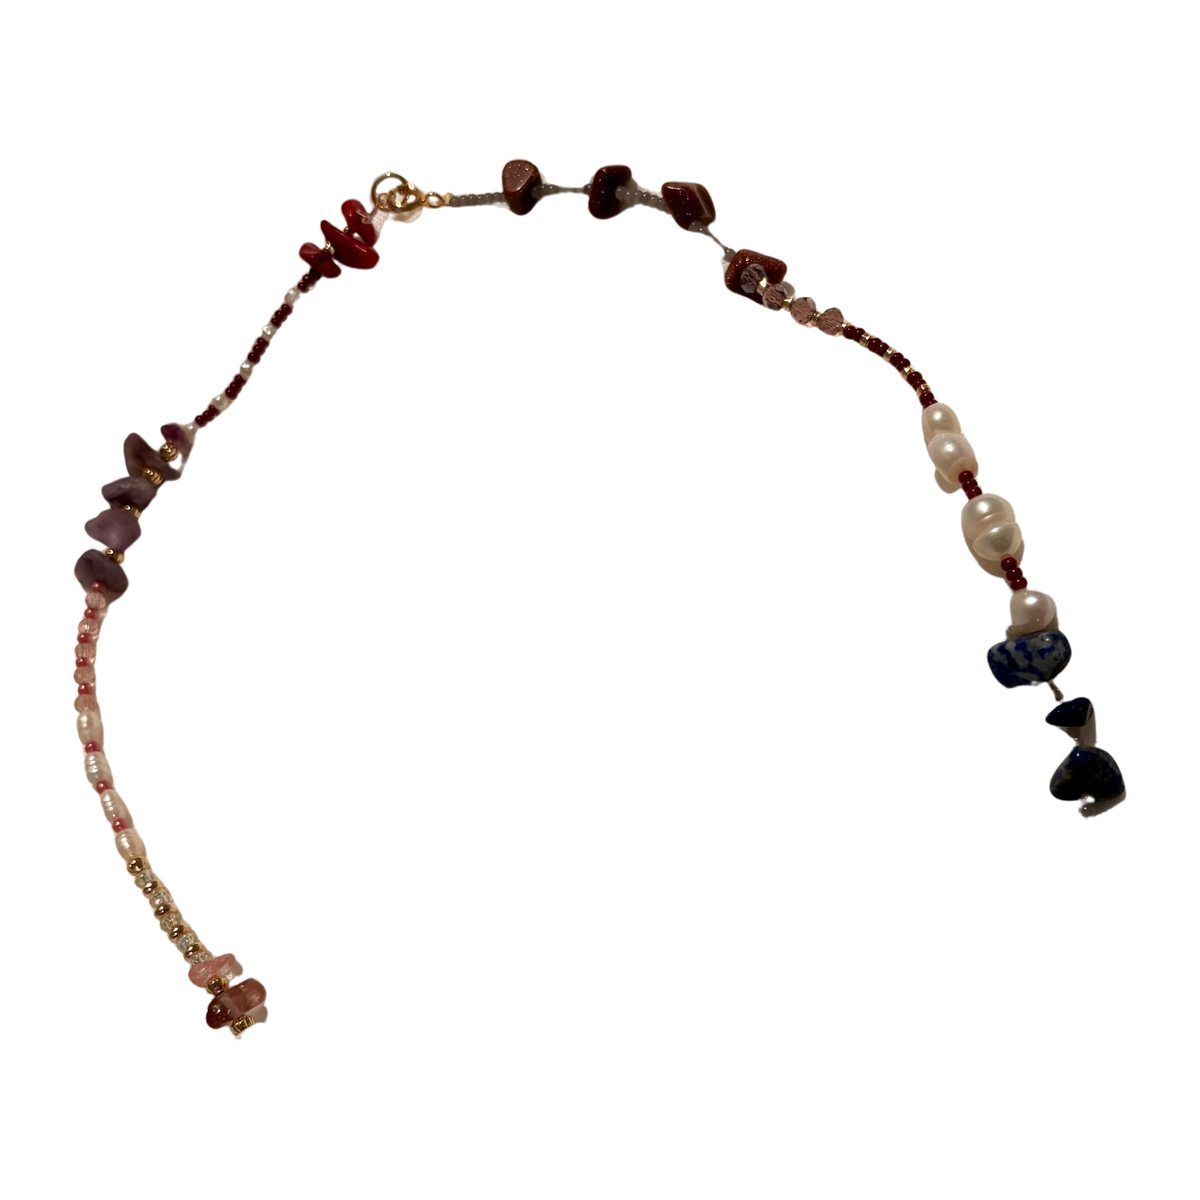
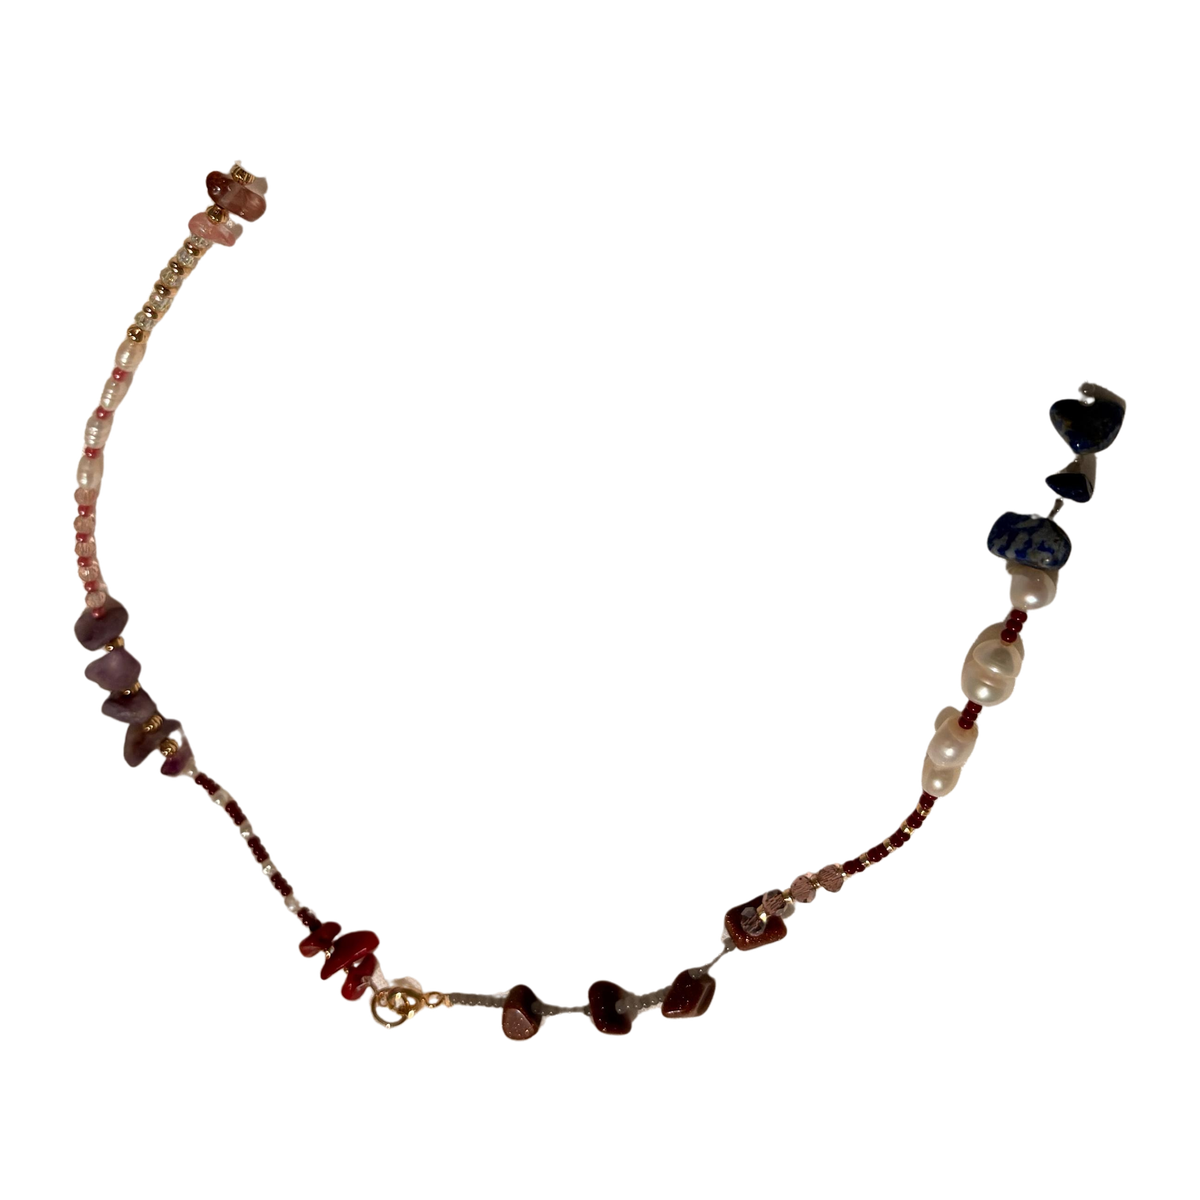
Corregir escala de pulsera (doble multiplicación), reducir anillos, agrandar arete cristal perla y voltear collar piedras mixtas

Changed region(s): [[0.2158, 0.2775, 0.9558, 0.8633], [0.0617, 0.1233, 0.2467, 0.8633], [0.2467, 0.1233, 0.7092, 0.2775]]

diff --git a/index.html b/index.html
@@ -541,7 +541,8 @@ function drawRings(landmarks){
   const ang = Math.atan2(dy,dx);
   const fingerLen = Math.hypot(pip.x-mcp.x, pip.y-mcp.y);
   const o = state.offsets.anillo, img = imagenActiva();
-  const w = fingerLen * 1.9 * o.scale;
+  if (!usable(img)) return;
+  const w = fingerLen * 0.95 * o.scale;
   const h = w * (img.naturalHeight / img.naturalWidth || 0.56);
   const px = pip.x + o.x*canvas.width, py = pip.y + o.y*canvas.height;
   // Sin corte: el anillo se ve completo (el usuario prefiere la imagen tal cual)
@@ -557,23 +558,24 @@ function drawPulseras(landmarks){
   const ang = Math.atan2(dy,dx);
   const o = state.offsets.pulsera, img = imagenActiva();
   if (!usable(img)) return;
-  // grosor de la muñeca estimado a partir del ancho de la mano
-  const palmW = Math.hypot((P(hand,9).x-P(hand,17).x)*canvas.width, (P(hand,9).y-P(hand,17).y)*canvas.height) || len*0.45;
-  const grosor = palmW * 0.82;
-  const w = grosor * 1.32 * o.scale;
-  const h = w * 0.58;
-  const cx = wrist.x - ux*len*0.06 + o.x*canvas.width;
-  const cy = wrist.y - uy*len*0.06 + o.y*canvas.height;
-  // sombra suave detrás de la pulsera
+  // Ancho de la mano (nudillos 5→17) y, a partir de ahí, el grosor de la muñeca.
+  const nudillos = Math.hypot(P(hand,5).x-P(hand,17).x, P(hand,5).y-P(hand,17).y);
+  const grosor = (nudillos || len*0.70) * 0.78;
+  const w = grosor * 1.25 * o.scale;
+  const h = w * 0.60;
+  // La muñeca queda un poco por debajo de la línea muñeca→nudillo
+  const cx = wrist.x - ux*len*0.05 + o.x*canvas.width;
+  const cy = wrist.y - uy*len*0.05 + o.y*canvas.height;
   ctx.save();
   ctx.translate(cx, cy);
   ctx.rotate(ang + Math.PI/2);
-  ctx.globalAlpha = 0.18;
-  ctx.filter = 'blur(6px)';
+  // sombra suave debajo, para que se vea apoyada en la piel
+  ctx.save();
+  ctx.globalAlpha = 0.20;
+  ctx.filter = 'blur(7px)';
   ctx.fillStyle = '#000';
-  ctx.beginPath(); ctx.ellipse(0, h*0.12, w/2, h/2, 0, 0, Math.PI*2); ctx.fill();
-  ctx.filter = 'none';
-  ctx.globalAlpha = 1;
+  ctx.beginPath(); ctx.ellipse(0, h*0.16, w/2, h/2, 0, 0, Math.PI*2); ctx.fill();
+  ctx.restore();
   ctx.drawImage(img, -w/2, -h/2, w, h);
   ctx.restore();
 }
@@ -608,8 +610,10 @@ function renderPhoto(){
   frameSource = state.photo;
   ctx.clearRect(0,0,canvas.width,canvas.height);
   ctx.drawImage(state.photo,0,0,canvas.width,canvas.height);
-  if (usaManos()) pintarSobre(null, handImg.detect(state.photo).landmarks);
-  else pintarSobre(faceImg.detect(state.photo).faceLandmarks, null);
+  if (usaManos()) {
+    const L = handImg.detect(state.photo).landmarks;
+    pintarSobre(null, L);
+  } else pintarSobre(faceImg.detect(state.photo).faceLandmarks, null);
   document.getElementById('result').classList.remove('show');
 }
 function refrescar(){
